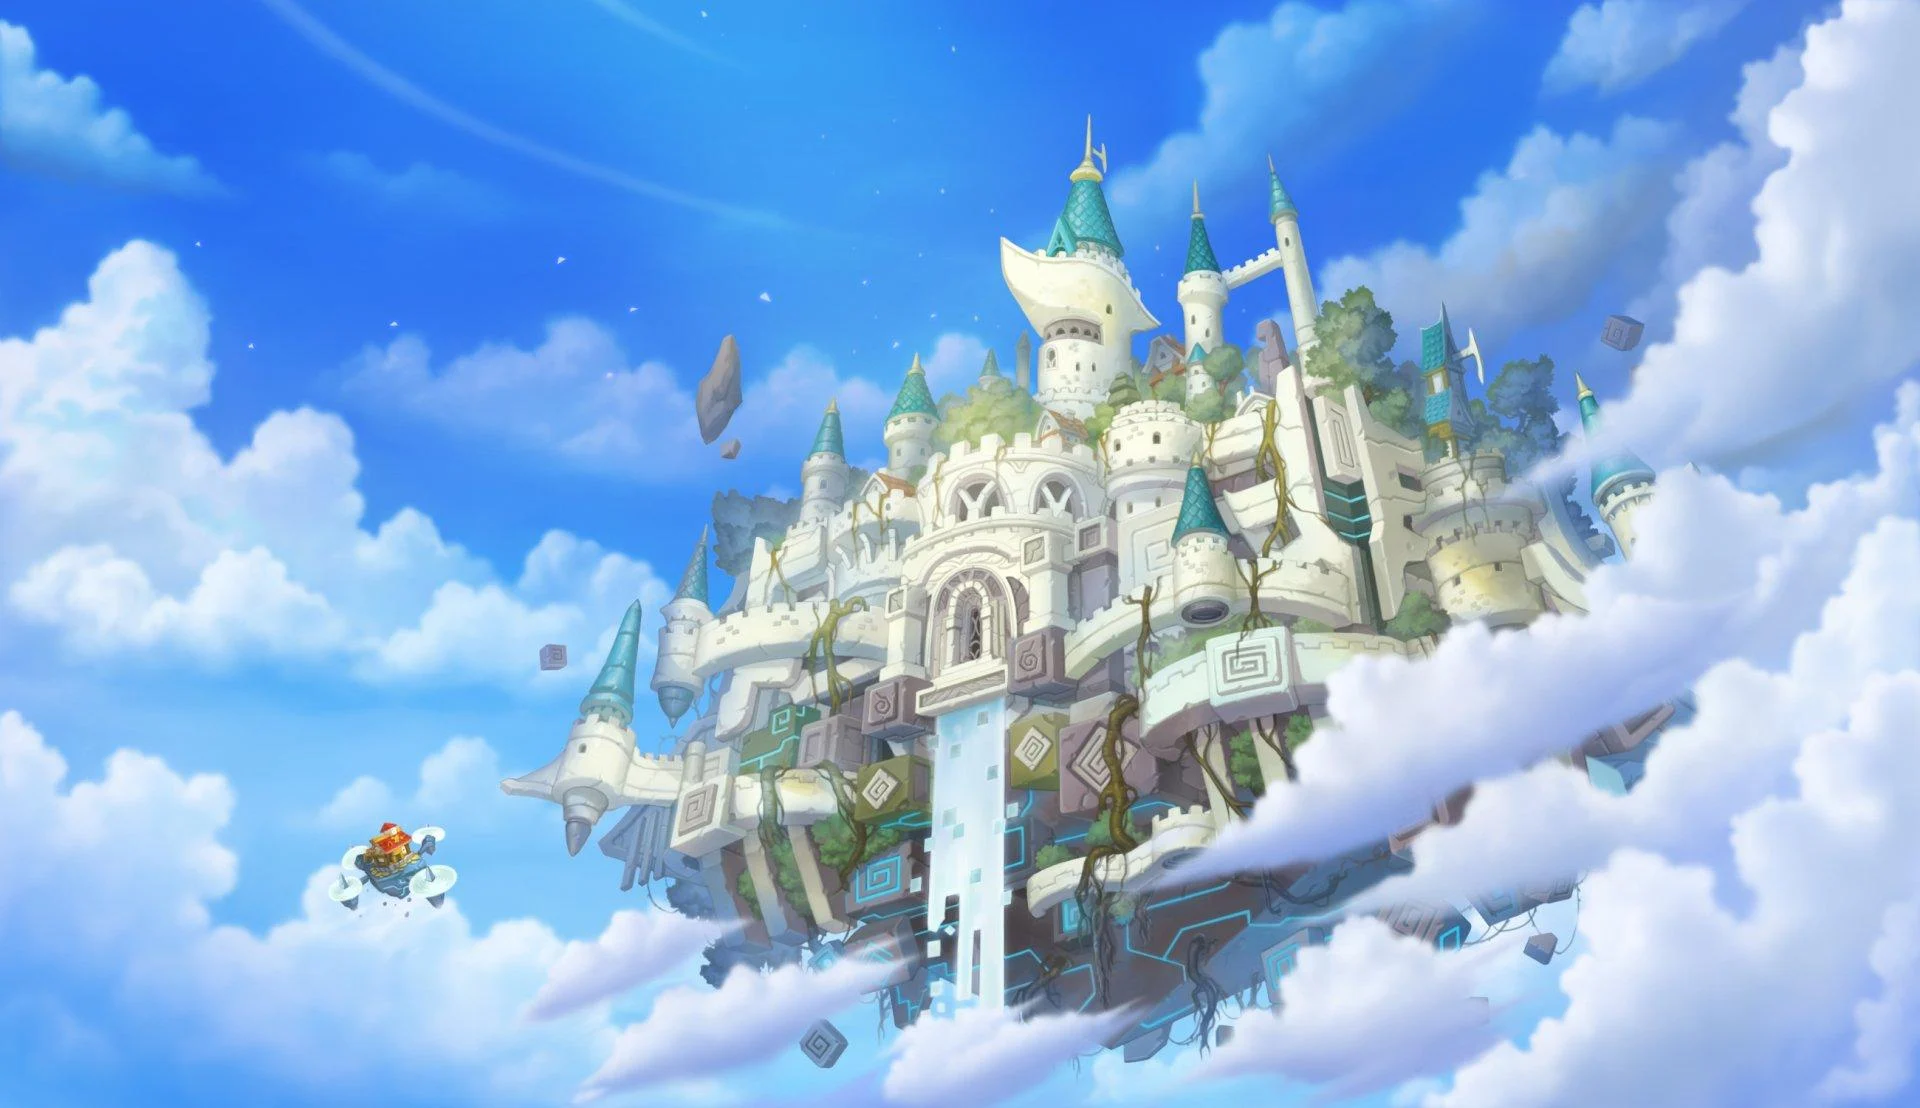
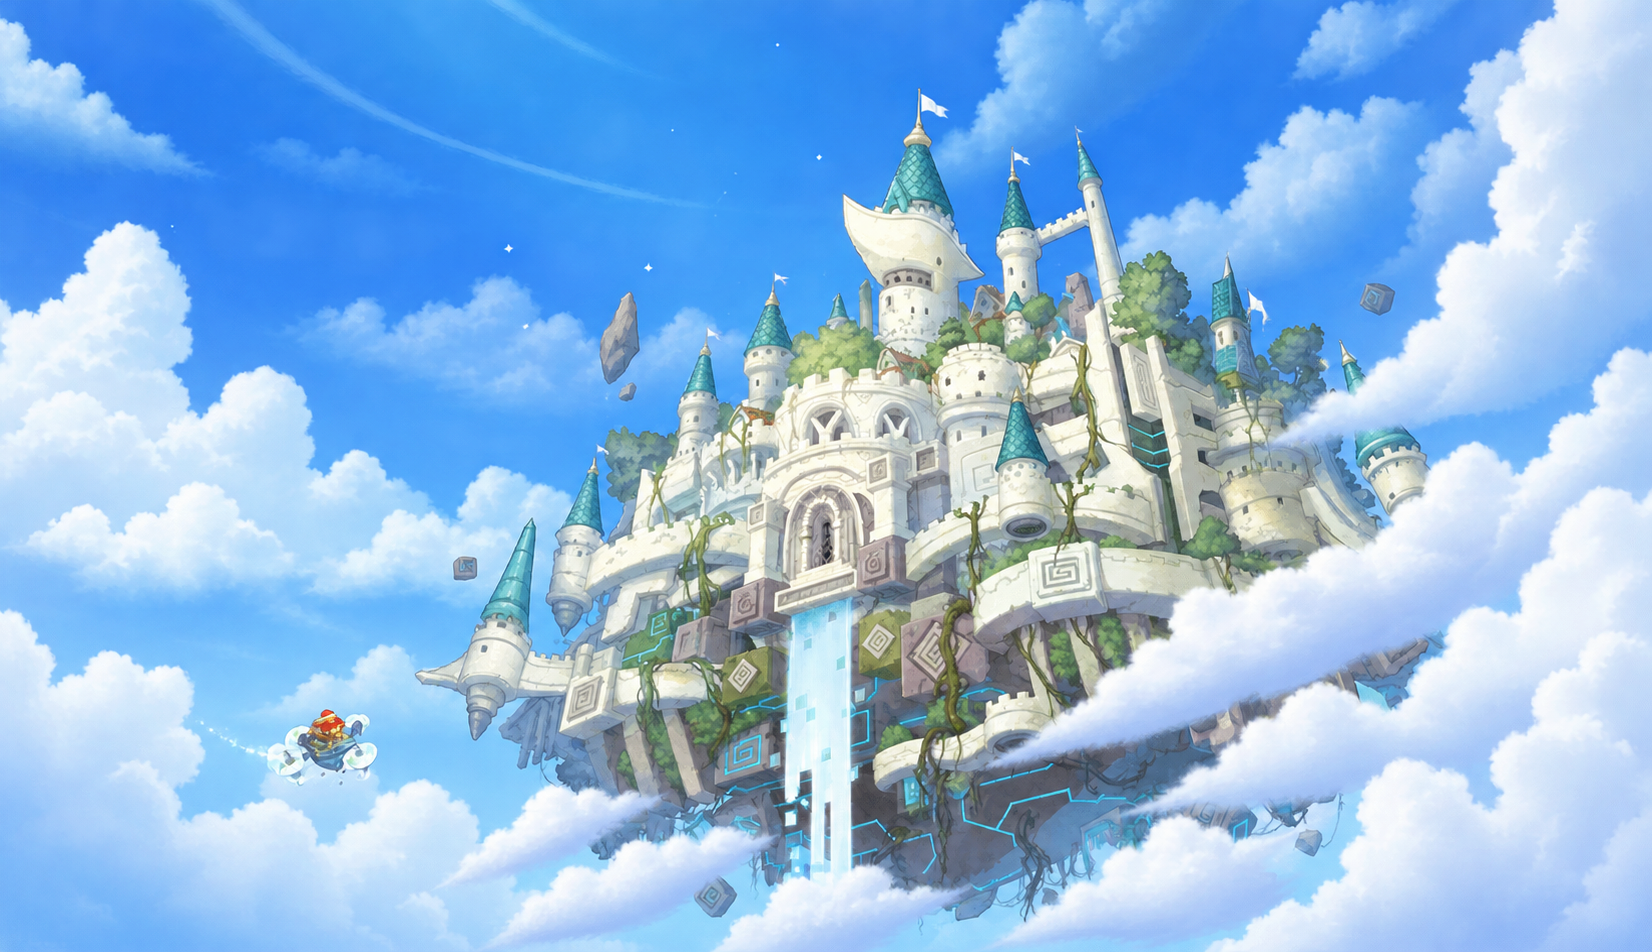
feat: improve tapgame ui, guardianrun bg

diff --git a/wwwroot/app.css b/wwwroot/app.css
@@ -15,6 +15,7 @@
     --color-sky-50: oklch(97.7% 0.013 236.62);
     --color-sky-200: oklch(90.1% 0.058 230.902);
     --color-indigo-900: oklch(35.9% 0.144 278.697);
+    --color-purple-500: oklch(62.7% 0.265 303.9);
     --color-purple-900: oklch(38.1% 0.176 304.987);
     --color-pink-500: oklch(65.6% 0.241 354.308);
     --color-slate-300: oklch(86.9% 0.022 252.894);
@@ -32,6 +33,7 @@
     --spacing: 0.25rem;
     --container-xl: 36rem;
     --container-2xl: 42rem;
+    --container-3xl: 48rem;
     --container-4xl: 56rem;
     --container-5xl: 64rem;
     --container-6xl: 72rem;
@@ -263,11 +265,20 @@
   .inset-x-10 {
     inset-inline: calc(var(--spacing) * 10);
   }
+  .inset-x-20 {
+    inset-inline: calc(var(--spacing) * 20);
+  }
   .inset-y-1 {
     inset-block: var(--spacing);
   }
+  .inset-y-2 {
+    inset-block: calc(var(--spacing) * 2);
+  }
   .inset-y-10 {
     inset-block: calc(var(--spacing) * 10);
+  }
+  .inset-y-19 {
+    inset-block: calc(var(--spacing) * 19);
   }
   .inset-y-30 {
     inset-block: calc(var(--spacing) * 30);
@@ -277,6 +288,9 @@
   }
   .inset-y-35 {
     inset-block: calc(var(--spacing) * 35);
+  }
+  .inset-y-36 {
+    inset-block: calc(var(--spacing) * 36);
   }
   .inset-y-40 {
     inset-block: calc(var(--spacing) * 40);
@@ -289,6 +303,9 @@
   }
   .inset-y-200 {
     inset-block: calc(var(--spacing) * 200);
+  }
+  .inset-y-auto {
+    inset-block: auto;
   }
   .start-0 {
     inset-inline-start: calc(var(--spacing) * 0);
@@ -352,6 +369,9 @@
   }
   .z-50 {
     z-index: 50;
+  }
+  .z-100 {
+    z-index: 100;
   }
   .order-0 {
     order: 0;
@@ -662,8 +682,20 @@
   .table-row {
     display: table-row;
   }
+  .aspect-\[2\/5\] {
+    aspect-ratio: 2/5;
+  }
+  .aspect-\[3\/5\] {
+    aspect-ratio: 3/5;
+  }
+  .aspect-\[4\/3\] {
+    aspect-ratio: 4/3;
+  }
   .aspect-\[4\/5\] {
     aspect-ratio: 4/5;
+  }
+  .aspect-\[5\/5\] {
+    aspect-ratio: 5/5;
   }
   .aspect-square {
     aspect-ratio: 1 / 1;
@@ -854,6 +886,9 @@
   .max-w-2xl {
     max-width: var(--container-2xl);
   }
+  .max-w-3xl {
+    max-width: var(--container-3xl);
+  }
   .max-w-4xl {
     max-width: var(--container-4xl);
   }
@@ -862,6 +897,15 @@
   }
   .max-w-6xl {
     max-width: var(--container-6xl);
+  }
+  .max-w-\[220px\] {
+    max-width: 220px;
+  }
+  .max-w-\[320px\] {
+    max-width: 320px;
+  }
+  .max-w-\[330px\] {
+    max-width: 330px;
   }
   .max-w-\[420px\] {
     max-width: 420px;
@@ -926,6 +970,9 @@
   .grid-cols-4 {
     grid-template-columns: repeat(4, minmax(0, 1fr));
   }
+  .grid-rows-3 {
+    grid-template-rows: repeat(3, minmax(0, 1fr));
+  }
   .grid-rows-5 {
     grid-template-rows: repeat(5, minmax(0, 1fr));
   }
@@ -970,6 +1017,9 @@
   }
   .gap-2 {
     gap: calc(var(--spacing) * 2);
+  }
+  .gap-2\.5 {
+    gap: calc(var(--spacing) * 2.5);
   }
   .gap-3 {
     gap: calc(var(--spacing) * 3);
@@ -1067,6 +1117,10 @@
     border-style: var(--tw-border-style);
     border-width: 5px;
   }
+  .border-10 {
+    border-style: var(--tw-border-style);
+    border-width: 10px;
+  }
   .border-12 {
     border-style: var(--tw-border-style);
     border-width: 12px;
@@ -1085,6 +1139,12 @@
   }
   .border-black {
     border-color: var(--color-black);
+  }
+  .border-black\/10 {
+    border-color: color-mix(in srgb, #000 10%, transparent);
+    @supports (color: color-mix(in lab, red, red)) {
+      border-color: color-mix(in oklab, var(--color-black) 10%, transparent);
+    }
   }
   .border-gray-800 {
     border-color: var(--color-gray-800);
@@ -1125,8 +1185,29 @@
   .border-l-black {
     border-left-color: var(--color-black);
   }
+  .border-l-purple-900 {
+    border-left-color: var(--color-purple-900);
+  }
+  .border-l-purple-900\/70 {
+    border-left-color: color-mix(in srgb, oklch(38.1% 0.176 304.987) 70%, transparent);
+    @supports (color: color-mix(in lab, red, red)) {
+      border-left-color: color-mix(in oklab, var(--color-purple-900) 70%, transparent);
+    }
+  }
   .border-l-white {
     border-left-color: var(--color-white);
+  }
+  .border-l-white\/40 {
+    border-left-color: color-mix(in srgb, #fff 40%, transparent);
+    @supports (color: color-mix(in lab, red, red)) {
+      border-left-color: color-mix(in oklab, var(--color-white) 40%, transparent);
+    }
+  }
+  .border-l-white\/500 {
+    border-left-color: color-mix(in srgb, #fff 500%, transparent);
+    @supports (color: color-mix(in lab, red, red)) {
+      border-left-color: color-mix(in oklab, var(--color-white) 500%, transparent);
+    }
   }
   .bg-\[rgba\(20\,20\,30\,0\.75\)\] {
     background-color: rgba(20,20,30,0.75);
@@ -1152,6 +1233,60 @@
       background-color: color-mix(in oklab, var(--color-black) 60%, transparent);
     }
   }
+  .bg-black\/\[0\.1\] {
+    background-color: color-mix(in srgb, #000 10%, transparent);
+    @supports (color: color-mix(in lab, red, red)) {
+      background-color: color-mix(in oklab, var(--color-black) 10%, transparent);
+    }
+  }
+  .bg-black\/\[0\.02\] {
+    background-color: color-mix(in srgb, #000 2%, transparent);
+    @supports (color: color-mix(in lab, red, red)) {
+      background-color: color-mix(in oklab, var(--color-black) 2%, transparent);
+    }
+  }
+  .bg-black\/\[0\.2\] {
+    background-color: color-mix(in srgb, #000 20%, transparent);
+    @supports (color: color-mix(in lab, red, red)) {
+      background-color: color-mix(in oklab, var(--color-black) 20%, transparent);
+    }
+  }
+  .bg-black\/\[0\.03\] {
+    background-color: color-mix(in srgb, #000 3%, transparent);
+    @supports (color: color-mix(in lab, red, red)) {
+      background-color: color-mix(in oklab, var(--color-black) 3%, transparent);
+    }
+  }
+  .bg-black\/\[0\.3\] {
+    background-color: color-mix(in srgb, #000 30%, transparent);
+    @supports (color: color-mix(in lab, red, red)) {
+      background-color: color-mix(in oklab, var(--color-black) 30%, transparent);
+    }
+  }
+  .bg-black\/\[0\.4\] {
+    background-color: color-mix(in srgb, #000 40%, transparent);
+    @supports (color: color-mix(in lab, red, red)) {
+      background-color: color-mix(in oklab, var(--color-black) 40%, transparent);
+    }
+  }
+  .bg-black\/\[0\.05\] {
+    background-color: color-mix(in srgb, #000 5%, transparent);
+    @supports (color: color-mix(in lab, red, red)) {
+      background-color: color-mix(in oklab, var(--color-black) 5%, transparent);
+    }
+  }
+  .bg-black\/\[0\.5\] {
+    background-color: color-mix(in srgb, #000 50%, transparent);
+    @supports (color: color-mix(in lab, red, red)) {
+      background-color: color-mix(in oklab, var(--color-black) 50%, transparent);
+    }
+  }
+  .bg-black\/\[0\.9\] {
+    background-color: color-mix(in srgb, #000 90%, transparent);
+    @supports (color: color-mix(in lab, red, red)) {
+      background-color: color-mix(in oklab, var(--color-black) 90%, transparent);
+    }
+  }
   .bg-gray-500 {
     background-color: var(--color-gray-500);
   }
@@ -1169,6 +1304,9 @@
   }
   .bg-pink-500 {
     background-color: var(--color-pink-500);
+  }
+  .bg-purple-500 {
+    background-color: var(--color-purple-500);
   }
   .bg-red-500 {
     background-color: var(--color-red-500);
@@ -1200,11 +1338,26 @@
       background-color: color-mix(in oklab, var(--color-white) 80%, transparent);
     }
   }
+  .bg-white\/\[0\.2\] {
+    background-color: color-mix(in srgb, #fff 20%, transparent);
+    @supports (color: color-mix(in lab, red, red)) {
+      background-color: color-mix(in oklab, var(--color-white) 20%, transparent);
+    }
+  }
+  .bg-white\/\[0\.3\] {
+    background-color: color-mix(in srgb, #fff 30%, transparent);
+    @supports (color: color-mix(in lab, red, red)) {
+      background-color: color-mix(in oklab, var(--color-white) 30%, transparent);
+    }
+  }
   .bg-white\/\[0\.08\] {
     background-color: color-mix(in srgb, #fff 8%, transparent);
     @supports (color: color-mix(in lab, red, red)) {
       background-color: color-mix(in oklab, var(--color-white) 8%, transparent);
     }
+  }
+  .bg-white\/\[1\] {
+    background-color: var(--color-white);
   }
   .bg-gradient-to-b {
     --tw-gradient-position: to bottom in oklab;
@@ -1234,6 +1387,9 @@
   }
   .bg-\[url\(\'\/images\/bg3\.png\'\)\] {
     background-image: url('/images/bg3.png');
+  }
+  .bg-\[url\(\'\/images\/bg4\.png\'\)\] {
+    background-image: url('/images/bg4.png');
   }
   .bg-\[url\(\'\/images\/character\.png\'\)\] {
     background-image: url('/images/character.png');
@@ -1371,6 +1527,9 @@
   }
   .px-9 {
     padding-inline: calc(var(--spacing) * 9);
+  }
+  .px-12 {
+    padding-inline: calc(var(--spacing) * 12);
   }
   .py-0 {
     padding-block: 0px;
@@ -1667,6 +1826,9 @@
   .opacity-85 {
     opacity: 85%;
   }
+  .opacity-90 {
+    opacity: 90%;
+  }
   .opacity-100 {
     opacity: 100%;
   }
@@ -1713,6 +1875,12 @@
   .ring-2 {
     --tw-ring-shadow: var(--tw-ring-inset,) 0 0 0 calc(2px + var(--tw-ring-offset-width)) var(--tw-ring-color, currentcolor);
     box-shadow: var(--tw-inset-shadow), var(--tw-inset-ring-shadow), var(--tw-ring-offset-shadow), var(--tw-ring-shadow), var(--tw-shadow);
+  }
+  .shadow-\[rgba\(255\,71\,133\,0\.5\)\] {
+    --tw-shadow-color: rgba(255,71,133,0.5);
+    @supports (color: color-mix(in lab, red, red)) {
+      --tw-shadow-color: color-mix(in oklab, rgba(255,71,133,0.5) var(--tw-shadow-alpha), transparent);
+    }
   }
   .ring-white {
     --tw-ring-color: var(--color-white);
